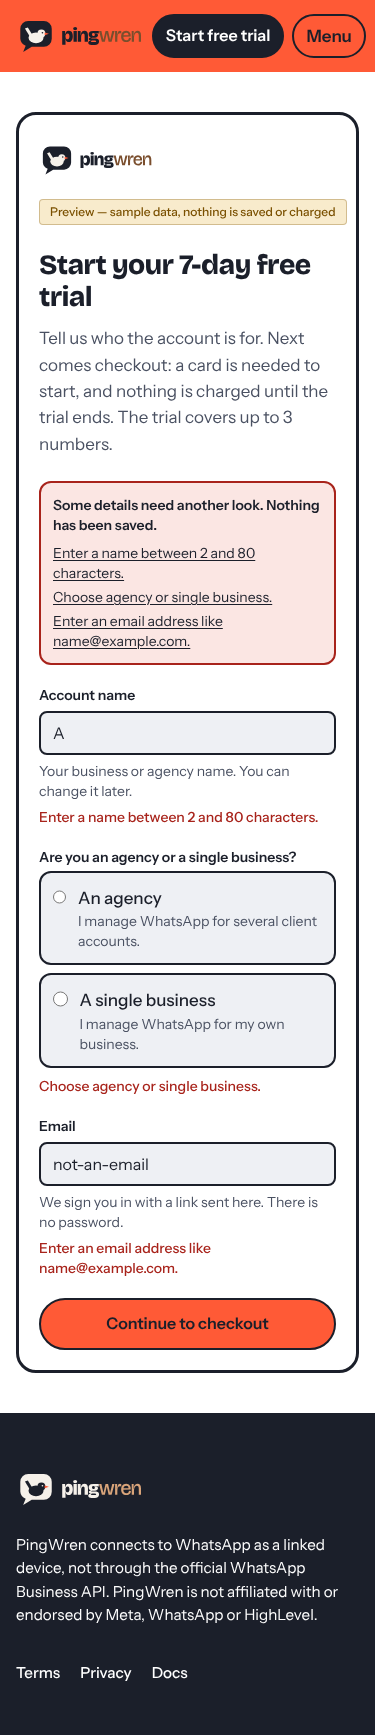
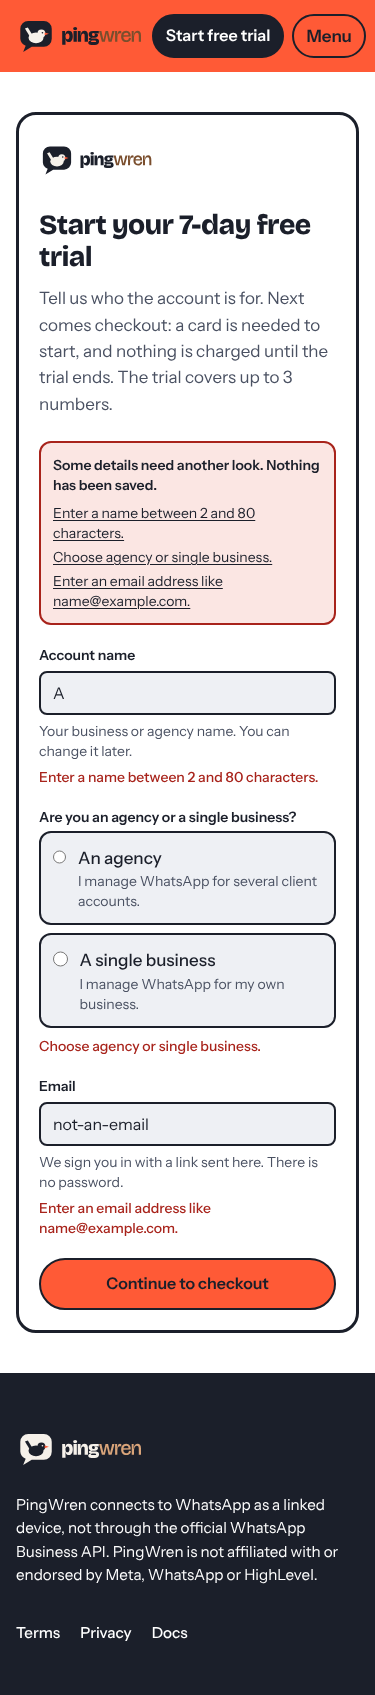
verify: merged branch walkthrough
Claude-Session: https://claude.ai/code/session_01C8am6JXR8UgvKbeEBPvjuQ

diff --git a/docs/website-screenshots/README.md b/docs/website-screenshots/README.md
@@ -103,3 +103,14 @@ Re-run at commit `83b2fcc` (Task 15: volume pricing, the two WhatsApp-style phon
 - `/docs/connect`: every app label on the sheet ("Connect WhatsApp", "Get a new QR code", "Reconnect", "Connected", "Waiting for QR scan", "Disconnected", the QR instruction, "Open this link on a computer, tablet, or a second phone.") is the string the app shows (`CrmEmbedClient.tsx`, `WhatsappConnectionPanel.tsx`, `ConnectLinkClient.tsx`); the Telephony Provider path, alternative-label note, QR warning and the expired-code / linked-device-limit answers match `setup-steps.ts`. In print media the header nav, the footer and the print/download buttons are `display: none`, the page is Ink on white, and `page.pdf` at A4 produces two pages. The committed `public/help/pingwren-how-to-connect.pdf` (A4, 2 pages) has text identical to a PDF generated from this build.
 - Coral text sweep (every element with its own visible text inside `.surface-coral`, excluding `.btn-ink` and the phones) on `/`, `/pricing`, `/docs`, `/docs/setup`, `/docs/connect`, `/docs/faq`, `/docs/billing` and `/signup` at 375 and 1280: 0 non-Ink colours (9 to 27 elements per page).
 - Findings from this run are in `.superpowers/sdd/2026-10-16-website/task-17-report.md` (gitignored) and `progress.md`.
+
+## Merged branch re-run (accounts + website, commit `24dbe32`)
+
+Re-run on `claude/adoring-brown-hvwuyz-accounts` after the website branch was merged into the accounts work (real sign-up, Stripe Checkout, dashboard and billing; the preview data source, `PreviewBadge`, `?scenario=` and `/signup/checkout` are gone). Same command, production build on port 3200 (`BASE_URL=http://localhost:3200`), no Supabase env and no Stripe env. `npm run check` passes (670 tests) and the build lists `/signup/complete`, `/dashboard` and `/dashboard/billing` as dynamic routes.
+
+- Exit code **0**: 21 routes x 2 widths, 0 axe violations at any impact (axe-core 4.14.0 is what `npm i --no-save axe-core` now installs; the tags are unchanged), 0 horizontal-scroll failures, one `<h1>` on every route except `/embed/crm` (F2), no WhatsApp green or logo on any page.
+- Route changes in `scripts/site-walkthrough.cjs`: `/signup/complete` and `/signup/complete?session_id=cs_test_walkthrough` (`signup-complete-*.png`, `signup-complete--session-*.png`) and `/login?error=checkout` are new; `/signup/checkout?...`, `/dashboard?scenario=past_due` and `/dashboard?filter=attention` are removed with their screenshots. `/dashboard` and `/dashboard/billing` join `/admin` as session-gated, status-only routes: without Supabase env `src/proxy.ts` throws and they answer **500** (fail closed, as this run shows); with `NEXT_PUBLIC_SUPABASE_URL` and the anon key set and no session they answer **307 to `/login`** (confirmed on a second server started with placeholder env). The script accepts either and never follows the redirect. The dashboard is not screenshotted any more because it needs a real signed-in account.
+- Agency resale calculator (`/pricing#resale`, ruling W41): at £50 the live region reads "Your clients pay you £50 a month. You pay us £14.99. You keep £35.01 a month (£420.12 a year)." for 1 number, £175.05 for 5, £420.10 for 10 (the default, "£5,041.20 a year") and £1,050.25 for 25. Below cost is honest: 10 numbers at £5 gives "You lose £29.90 a month (£358.80 a year)." plus "That is below the £7.99 a month you pay us for each number at this size, so each number costs you money."; 3 at £10 gives "You lose £14.97"; a price equal to ours gives "You keep nothing: your price only covers what you pay us." "£45" and "19.999" are accepted (the latter notes "Rounded to the nearest penny."); 0 clamps to 1 and 600 to 500 with the same notes as the price calculator; a blank or unreadable field shows "Fill in both boxes to see the figures." and marks the field `aria-invalid`. Both inputs have visible `<label>`s, 48px tall, `aria-describedby` pointing at an existing `role="status"` line, and the output is one `aria-live="polite"` region. With JavaScript off at 375 the default 10-number sentence and the fallback line ("For example, at £50 a number you would keep £35.01 with 1, £175.05 with 5, £420.10 with 10 and £1,050.25 with 25 numbers, each month.") are in the HTML. Copy says £50 "is a common price", "You set your own price" and "examples, not a promise of income". Contrast on the Ink band: white 16.46, `#E4E7EE` 13.29, Coral keep-line 5.30 at 24px/800 and above; focus ring is a 2px white outline. Pointers: home price strip "Reselling to clients? See what you would keep" and the agency FAQ "Try the resale calculator", both to `/pricing#resale`.
+- Sign-up: `/signup` says "Start your 7-day free trial", "a card is needed to start, and nothing is charged until the trial ends. The trial covers up to 3 numbers." and the button is "Continue to checkout"; the error state keeps values as before. `/signup/complete?session_id=...` shows "Email me my sign-in link"; without a session id it links to `/login`. `/login?error=checkout` renders "Billing isn't set up yet". No public page renders "Preview", "£29", `signup/checkout` or "sample data"; "Sample" appears only on the labelled sample screens (W31).
+- `/docs/connect`: every quoted app label still exists in `CrmEmbedClient.tsx`, `WhatsappConnectionPanel.tsx` or `ConnectLinkClient.tsx`; a PDF generated from this build has text identical to the committed `public/help/pingwren-how-to-connect.pdf` (A4, 2 pages).
+- Coral text sweep (own visible text inside `.surface-coral`, excluding `.btn-ink` and the phones) on 14 public routes at 375 and 1280: 0 non-Ink colours (9 to 29 elements per page); 0 elements painting any WhatsApp-like green.

diff --git a/docs/website-screenshots/a11y-report.md b/docs/website-screenshots/a11y-report.md
@@ -1,7 +1,7 @@
 # Accessibility report
 
 Generated by `scripts/site-walkthrough.cjs` against http://localhost:3200 on 2026-10-16.
-axe-core 4.10.2 with tags wcag2a, wcag2aa, wcag21aa; viewports 375x812 and 1280x900.
+axe-core 4.14.0 with tags wcag2a, wcag2aa, wcag21aa; viewports 375x812 and 1280x900.
 
 ## Summary
 
@@ -29,22 +29,18 @@ axe-core 4.10.2 with tags wcag2a, wcag2aa, wcag21aa; viewports 375x812 and 1280x
 | `/legal/privacy` | 1280 | 200 | 1 | yes | 0 | 0 |
 | `/signup` | 375 | 200 | 1 | yes | 0 | 0 |
 | `/signup` | 1280 | 200 | 1 | yes | 0 | 0 |
+| `/signup/complete` | 375 | 200 | 1 | yes | 0 | 0 |
+| `/signup/complete` | 1280 | 200 | 1 | yes | 0 | 0 |
 | `/login` | 375 | 200 | 1 | yes | 0 | 0 |
 | `/login` | 1280 | 200 | 1 | yes | 0 | 0 |
-| `/dashboard` | 375 | 200 | 1 | yes | 0 | 0 |
-| `/dashboard` | 1280 | 200 | 1 | yes | 0 | 0 |
-| `/dashboard/billing` | 375 | 200 | 1 | yes | 0 | 0 |
-| `/dashboard/billing` | 1280 | 200 | 1 | yes | 0 | 0 |
-| `/dashboard?scenario=past_due` | 375 | 200 | 1 | yes | 0 | 0 |
-| `/dashboard?scenario=past_due` | 1280 | 200 | 1 | yes | 0 | 0 |
-| `/dashboard?filter=attention` | 375 | 200 | 1 | yes | 0 | 0 |
-| `/dashboard?filter=attention` | 1280 | 200 | 1 | yes | 0 | 0 |
 | `/docs/setup?audience=business` | 375 | 200 | 1 | yes | 0 | 0 |
 | `/docs/setup?audience=business` | 1280 | 200 | 1 | yes | 0 | 0 |
-| `/signup/checkout?name=Test&kind=agency&email=t%40example.com` | 375 | 200 | 1 | yes | 0 | 0 |
-| `/signup/checkout?name=Test&kind=agency&email=t%40example.com` | 1280 | 200 | 1 | yes | 0 | 0 |
+| `/signup/complete?session_id=cs_test_walkthrough` | 375 | 200 | 1 | yes | 0 | 0 |
+| `/signup/complete?session_id=cs_test_walkthrough` | 1280 | 200 | 1 | yes | 0 | 0 |
 | `/login?sent=1` | 375 | 200 | 1 | yes | 0 | 0 |
 | `/login?sent=1` | 1280 | 200 | 1 | yes | 0 | 0 |
+| `/login?error=checkout` | 375 | 200 | 1 | yes | 0 | 0 |
+| `/login?error=checkout` | 1280 | 200 | 1 | yes | 0 | 0 |
 | `/signup?error.accountName=name_length&error.kind=kind_required&error.email=email_invalid&v.accountName=A&v.email=not-an-email` | 375 | 200 | 1 | yes | 0 | 0 |
 | `/signup?error.accountName=name_length&error.kind=kind_required&error.email=email_invalid&v.accountName=A&v.email=not-an-email` | 1280 | 200 | 1 | yes | 0 | 0 |
 | `/this-page-does-not-exist` | 375 | 404 | 1 | yes | 0 | 0 |
@@ -54,6 +50,8 @@ axe-core 4.10.2 with tags wcag2a, wcag2aa, wcag21aa; viewports 375x812 and 1280x
 | `/connect/abc` | 375 | 200 | 1 | yes | 0 | 0 |
 | `/connect/abc` | 1280 | 200 | 1 | yes | 0 | 0 |
 | `/admin` | - | 500 | - | - | - | - |
+| `/dashboard` | - | 500 | - | - | - | - |
+| `/dashboard/billing` | - | 500 | - | - | - | - |
 
 ## Violations (route x impact x rule x count)
 
@@ -88,20 +86,17 @@ Logo `<img>` sources found at 1280 with the nearest painted background (reverse 
 | signup | pingwren-logo.svg | rgb(255, 90, 54) |
 | signup | pingwren-logo.svg | rgb(255, 255, 255) |
 | signup | pingwren-logo-reverse.svg | rgb(27, 31, 42) |
+| signup-complete | pingwren-logo.svg | rgb(255, 90, 54) |
+| signup-complete | pingwren-logo.svg | rgb(255, 255, 255) |
+| signup-complete | pingwren-logo-reverse.svg | rgb(27, 31, 42) |
 | login | pingwren-logo.svg | rgb(255, 255, 255) |
-| dashboard | pingwren-logo-reverse.svg | rgb(27, 31, 42) |
-| dashboard | pingwren-logo-reverse.svg | rgb(27, 31, 42) |
-| dashboard-billing | pingwren-logo-reverse.svg | rgb(27, 31, 42) |
-| dashboard-billing | pingwren-logo-reverse.svg | rgb(27, 31, 42) |
-| dashboard--scenario-past-due | pingwren-logo-reverse.svg | rgb(27, 31, 42) |
-| dashboard--scenario-past-due | pingwren-logo-reverse.svg | rgb(27, 31, 42) |
-| dashboard--filter-attention | pingwren-logo-reverse.svg | rgb(27, 31, 42) |
-| dashboard--filter-attention | pingwren-logo-reverse.svg | rgb(27, 31, 42) |
 | docs-setup--audience-business | pingwren-logo.svg | rgb(255, 90, 54) |
 | docs-setup--audience-business | pingwren-logo-reverse.svg | rgb(27, 31, 42) |
-| signup-checkout--name-Test-kind-agency-email-t-example-com | pingwren-logo.svg | rgb(255, 90, 54) |
-| signup-checkout--name-Test-kind-agency-email-t-example-com | pingwren-logo-reverse.svg | rgb(27, 31, 42) |
+| signup-complete--session | pingwren-logo.svg | rgb(255, 90, 54) |
+| signup-complete--session | pingwren-logo.svg | rgb(255, 255, 255) |
+| signup-complete--session | pingwren-logo-reverse.svg | rgb(27, 31, 42) |
 | login--sent-1 | pingwren-logo.svg | rgb(255, 255, 255) |
+| login--error-checkout | pingwren-logo.svg | rgb(255, 255, 255) |
 | signup--errors | pingwren-logo.svg | rgb(255, 90, 54) |
 | signup--errors | pingwren-logo.svg | rgb(255, 255, 255) |
 | signup--errors | pingwren-logo-reverse.svg | rgb(27, 31, 42) |
